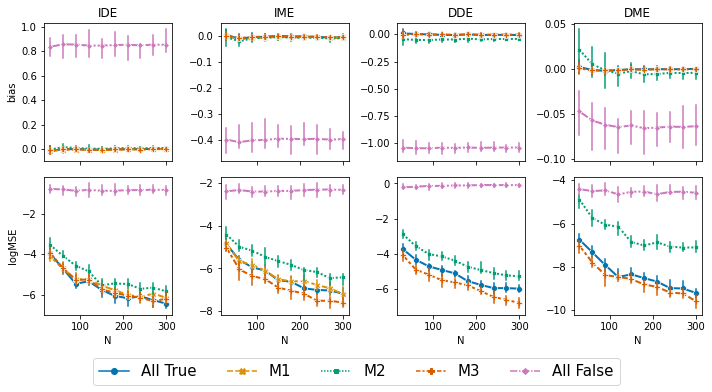
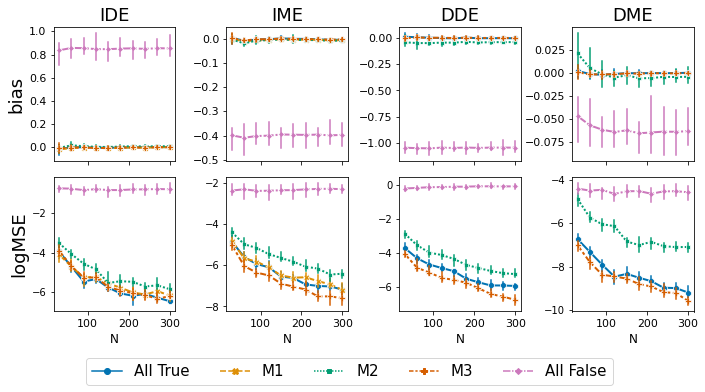
Add files via upload

diff --git a/Toy_1/plot.py b/Toy_1/plot.py
@@ -44,8 +44,9 @@ def plot(result, x='NT'):
                        ,linewidth = 2.0
                        ,markers = True
                         )
-    ax1.set_title('IDE')
-    ax1.axes.set_ylabel("bias")
+    ax1.set_title('IDE', fontsize = 18)
+    ax1.tick_params(axis='y', labelsize=11)
+    ax1.axes.set_ylabel("bias", fontsize = 18)
     
     ax2 = sns.lineplot(data=result
                          , x=x, y="IME_error"
@@ -59,8 +60,8 @@ def plot(result, x='NT'):
                        ,linewidth = 2.0
                        ,markers = True
                         )
-    ax2.set_title('IME')
-    #ax2.axes.set_ylabel("ME")
+    ax2.set_title('IME', fontsize = 18)
+    ax2.tick_params(axis='y', labelsize=11)
     ax2.set(ylabel=None)
     
     ax3 = sns.lineplot(data=result
@@ -75,8 +76,8 @@ def plot(result, x='NT'):
                        ,linewidth = 2.0
                        ,markers = True
                         )
-    ax3.set_title('DDE')
-    #ax3.axes.set_ylabel("SE")
+    ax3.set_title('DDE', fontsize = 18)
+    ax3.tick_params(axis='y', labelsize=11)
     ax3.set(ylabel=None)
     
     ax4 = sns.lineplot(data=result
@@ -91,7 +92,8 @@ def plot(result, x='NT'):
                        ,linewidth = 2.0
                        ,markers = True
                         )
-    ax4.set_title('DME')
+    ax4.set_title('DME', fontsize = 18)
+    ax4.tick_params(axis='y', labelsize=11)
     ax4.set(ylabel=None)
 
 
@@ -107,7 +109,9 @@ def plot(result, x='NT'):
                        ,linewidth = 2.0
                        ,markers = True
                         )
-    ax5.axes.set_ylabel("logMSE")
+    ax5.axes.set_ylabel("logMSE", fontsize = 18)
+    ax5.tick_params(axis='x', labelsize=11)
+    ax5.axes.set_xlabel(x,fontsize = 12)
     
     
     ax6 = sns.lineplot(data=result
@@ -124,6 +128,8 @@ def plot(result, x='NT'):
                         )
 
     ax6.set(ylabel=None)
+    ax6.tick_params(axis='x', labelsize=11)
+    ax6.axes.set_xlabel(x,fontsize = 12)
     
     ax7 = sns.lineplot(data=result
                          , x=x, y="DDE_MSE"
@@ -138,6 +144,8 @@ def plot(result, x='NT'):
                        ,markers = True
                         )
     ax7.set(ylabel=None)
+    ax7.tick_params(axis='x', labelsize=11)
+    ax7.axes.set_xlabel(x,fontsize = 12)
     
     ax8 = sns.lineplot(data=result
                          , x=x, y="DME_MSE"
@@ -152,6 +160,8 @@ def plot(result, x='NT'):
                        ,markers = True
                         )
     ax8.set(ylabel=None)
+    ax8.tick_params(axis='x', labelsize=11)
+    ax8.axes.set_xlabel(x,fontsize = 12)
 
     handles, labels = ax1.get_legend_handles_labels()
     #handles, labels = [(a + b) for a, b in zip(ax1.get_legend_handles_labels(), ax3.get_legend_handles_labels())]
@@ -169,4 +179,4 @@ def plot(result, x='NT'):
     ax8.get_legend().remove()
     plt.tight_layout()
     plt.show()
-    fig.savefig('robust_Final_SE_decomp', bbox_inches='tight')
+    fig.savefig('robust_Final', bbox_inches='tight')
